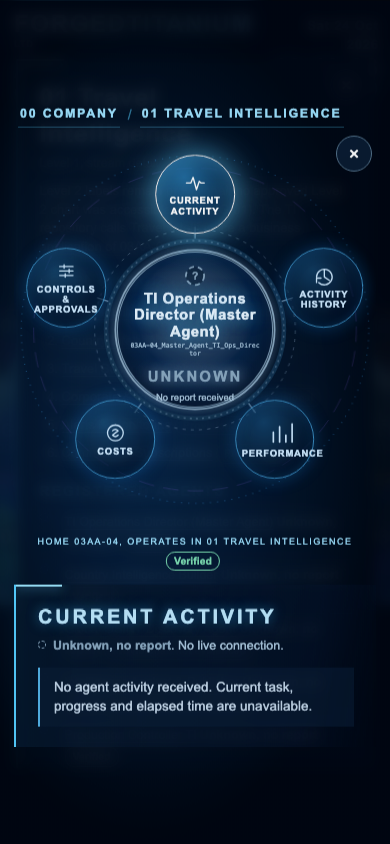
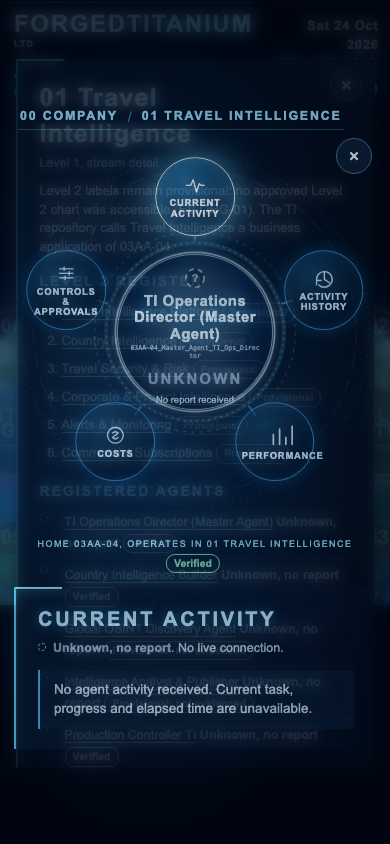
ACC-R017: brighter, larger Earth

diff --git a/site/acc_visual.js b/site/acc_visual.js
@@ -82,15 +82,15 @@ function createEarth(canvas){
       let fx = fx0[p] + shift; fx = fx - Math.floor(fx / FW) * FW;
       const x0 = fx | 0, x1 = x0 + 1 === FW ? 0 : x0 + 1, tx = fx - x0, yy = fy[p], y0 = yy | 0, ty = yy - y0, r0 = y0 * FW, r1 = r0 + FW;
       const v = (FIELD[r0 + x0] * (1 - tx) + FIELD[r0 + x1] * tx) * (1 - ty) + (FIELD[r1 + x0] * (1 - tx) + FIELD[r1 + x1] * tx) * ty;
-      const land = smooth(.4, .6, v), l = lam[p], sh = .26 + .74 * Math.pow(l, .85), rm = rim[p];
+      const land = smooth(.4, .6, v), l = lam[p], sh = .4 + .6 * Math.pow(l, .8), rm = rim[p];
       const tex = .9 + .1 * Math.sin(fx * .33) * Math.sin(yy * .41 + 1.3) + .18 * (TEX[r0 + x0] - .5);
-      let R = 6 + 26 * Math.pow(l, .8), G = 30 + 66 * Math.pow(l, .8), B = 84 + 112 * Math.pow(l, .8);          // ocean
+      let R = 12 + 40 * Math.pow(l, .8), G = 54 + 112 * Math.pow(l, .8), B = 120 + 130 * Math.pow(l, .8);          // ocean
       const sp = spec[p] * (1 - land) * .4; R += 150 * sp; G += 190 * sp; B += 235 * sp;
-      const ice = smooth(.74, .9, Math.abs(yy - 90) / 90), lR = (26 + 74 * l) * tex + 150 * ice * l, lG = (128 + 96 * l) * tex + 110 * ice * l, lB = (142 + 78 * l) * tex + 90 * ice * l;                     // lit land (holographic teal)
+      const ice = smooth(.74, .9, Math.abs(yy - 90) / 90), lR = (40 + 90 * l) * tex + 150 * ice * l, lG = (150 + 90 * l) * tex + 110 * ice * l, lB = (150 + 70 * l) * tex + 90 * ice * l;                     // lit land (holographic teal)
       R = R + (lR * sh - R) * land; G = G + (lG * sh - G) * land; B = B + (lB * sh - B) * land;
       if (land > .5 && l < .4) { const c = CITY[r0 + x0]; if (c) { const k = (1 - l / .4) * (.6 + .15 * c) * Math.max(0, 1 - 2.1 * Math.hypot(tx - .5, ty - .5)); R += 255 * k; G += 175 * k; B += 80 * k; } }
       const dist = Math.abs(fx - band), sc = Math.max(0, 1 - Math.min(dist, FW - dist) / 5) * .22 * (.4 + land);
-      R += 60 * rm * .9 + 70 * sc; G += 170 * rm * .9 + 160 * sc; B += 255 * rm * .9 + 220 * sc;
+      R += 70 * rm + 70 * sc; G += 190 * rm + 160 * sc; B += 255 * rm + 220 * sc;
       d[q] = R; d[q + 1] = G; d[q + 2] = B; d[q + 3] = a;
     }
     octx.putImageData(img, 0, 0);

diff --git a/site/index.html b/site/index.html
@@ -585,7 +585,7 @@ function renderExceptions(){
 const C = {x:600, y:400}, R = 268, NR = 94;
 const ANGLES = {'01':-90,'02':-30,'03':30,'04':90,'05':150,'06':210};
 const ORDER = ['01','02','03','04','05','06'];
-const EARTH_R = 150, DISC_R = 96, GLOBE_R = 292;           // core ring / identity disc / the large three-dimensional Earth
+const EARTH_R = 150, DISC_R = 96, GLOBE_R = 322;           // core ring / identity disc / the large three-dimensional Earth
 const CONTENT = {x:-70, y:4, w:1340, h:792}, CONTENT_M = {x:236, y:4, w:728, h:792};
 const PHOTO = {'01':[112,68],'02':[112,50],'03':[112,65],'04':[112,46],'05':[112,65],'06':[112,28]};   // source crop sizes of assets/node-XX.jpg
 function pos(id){ const a = ANGLES[id] * Math.PI / 180; return {x: C.x + R*Math.cos(a), y: C.y + R*Math.sin(a)}; }
